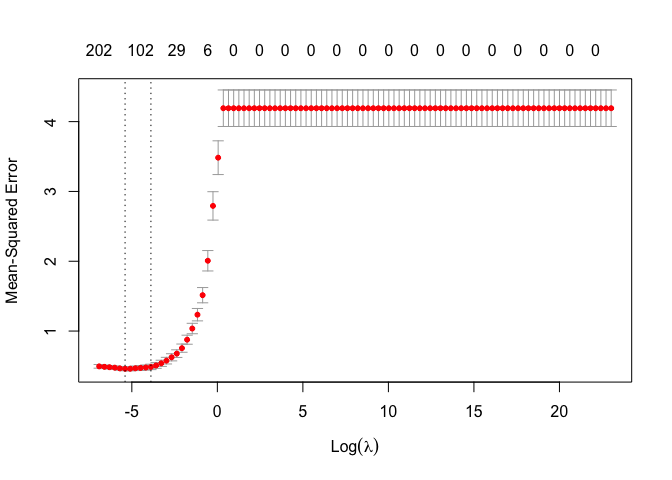
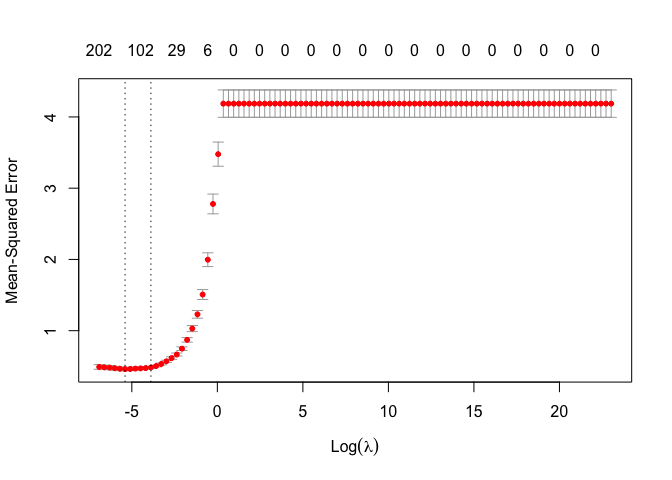
second commit 3/1

diff --git a/Homework1.md b/Homework1.md
@@ -57,6 +57,15 @@ train = read_csv("./data/solubility_train.csv")
 # fit a linear model using least squares
 fit_ml = lm(Solubility ~ .-Solubility, data = train)
 # summary(fit_ml)
+# mse for training data
+pred_ml_train = predict(fit_ml, train)
+mse_ml_train = mse(train$Solubility, pred_ml_train)
+mse_ml_train
+```
+
+    ## [1] 0.2316799
+
+``` r
 # calculate the mse using the test data
 pred_ml  = predict(fit_ml, test)
 mse_ml = mse(test$Solubility, pred_ml)
@@ -121,6 +130,15 @@ best.ridge
     ## [1] 0.06892612
 
 ``` r
+# mse for training data
+pred_ridge_train = predict(cv.ridge, s = best.ridge, newx = x.train)
+mse_ridge_train = mse(train$Solubility, pred_ridge_train)
+mse_ridge_train
+```
+
+    ## [1] 0.2932181
+
+``` r
 # test error
 x.test = as.matrix(subset(test, select = -Solubility))
 pred_ridge = predict(cv.ridge, s = best.ridge, newx = x.test)
@@ -134,7 +152,7 @@ mse_ridge
 
 ``` r
 # cross-validation
-set.seed(2)
+set.seed(1)
 cv.lasso  = cv.glmnet(x.train, y.train, alpha = 1, lambda = 10^seq(10, -3, length = 100))
 plot(cv.lasso)
 ```
@@ -150,6 +168,15 @@ best.lasso
     ## [1] 0.004534879
 
 ``` r
+# mse for training data
+pred_lasso_train = predict(cv.lasso, s = best.lasso, newx = x.train)
+mse_lasso_train = mse(train$Solubility, pred_lasso_train)
+mse_lasso_train
+```
+
+    ## [1] 0.3017123
+
+``` r
 # test error
 pred_lasso = predict(cv.lasso, s = best.lasso, newx = x.test)
 mse_lasso = mse(test$Solubility, pred_lasso)
@@ -160,240 +187,8 @@ mse_lasso
 
 ``` r
 # coefficients of the final model
-predict(cv.lasso, s = "lambda.min", type = "coefficients")
+# predict(cv.lasso, s = "lambda.min", type = "coefficients")
 ```
-
-    ## 229 x 1 sparse Matrix of class "dgCMatrix"
-    ##                              1
-    ## (Intercept)        7.212941406
-    ## FP001              .          
-    ## FP002              0.237554622
-    ## FP003             -0.047828666
-    ## FP004             -0.234244319
-    ## FP005              .          
-    ## FP006             -0.074264043
-    ## FP007              .          
-    ## FP008              .          
-    ## FP009              .          
-    ## FP010              .          
-    ## FP011              .          
-    ## FP012             -0.054758453
-    ## FP013             -0.051873443
-    ## FP014              .          
-    ## FP015             -0.094374257
-    ## FP016             -0.072805709
-    ## FP017             -0.141513899
-    ## FP018             -0.094273168
-    ## FP019              .          
-    ## FP020              0.100791468
-    ## FP021              .          
-    ## FP022              .          
-    ## FP023             -0.156238588
-    ## FP024             -0.109785614
-    ## FP025              .          
-    ## FP026              0.264631778
-    ## FP027              0.304514484
-    ## FP028              .          
-    ## FP029              .          
-    ## FP030             -0.158914960
-    ## FP031              0.120012007
-    ## FP032              .          
-    ## FP033              0.109219221
-    ## FP034             -0.005463146
-    ## FP035             -0.141191638
-    ## FP036              .          
-    ## FP037              0.208952547
-    ## FP038              0.063363825
-    ## FP039             -0.425644064
-    ## FP040              0.434148993
-    ## FP041              .          
-    ## FP042              .          
-    ## FP043              0.058040661
-    ## FP044             -0.296631452
-    ## FP045              0.089546154
-    ## FP046              .          
-    ## FP047              .          
-    ## FP048              .          
-    ## FP049              0.290168631
-    ## FP050             -0.156457305
-    ## FP051              .          
-    ## FP052              .          
-    ## FP053              0.237163059
-    ## FP054             -0.084119169
-    ## FP055             -0.142720343
-    ## FP056              .          
-    ## FP057             -0.088493182
-    ## FP058              .          
-    ## FP059             -0.294160494
-    ## FP060              .          
-    ## FP061             -0.160010778
-    ## FP062              .          
-    ## FP063              0.111700144
-    ## FP064              0.240395105
-    ## FP065             -0.139261493
-    ## FP066              0.046618320
-    ## FP067              .          
-    ## FP068              0.001473962
-    ## FP069              0.131756296
-    ## FP070             -0.085768991
-    ## FP071              0.095996776
-    ## FP072              .          
-    ## FP073             -0.121888929
-    ## FP074              0.108060499
-    ## FP075              0.185936681
-    ## FP076              0.170871760
-    ## FP077              0.081532084
-    ## FP078             -0.145663270
-    ## FP079              0.198457856
-    ## FP080              .          
-    ## FP081             -0.198774327
-    ## FP082              0.139348941
-    ## FP083             -0.343282524
-    ## FP084              0.261617957
-    ## FP085             -0.324029581
-    ## FP086             -0.009397866
-    ## FP087              .          
-    ## FP088              0.098463046
-    ## FP089              .          
-    ## FP090              .          
-    ## FP091              0.003514675
-    ## FP092              .          
-    ## FP093              0.153787051
-    ## FP094             -0.166505319
-    ## FP095              .          
-    ## FP096             -0.048277607
-    ## FP097              .          
-    ## FP098             -0.050073264
-    ## FP099              0.158421493
-    ## FP100              .          
-    ## FP101              .          
-    ## FP102              0.001847309
-    ## FP103             -0.114653291
-    ## FP104             -0.082603903
-    ## FP105             -0.059922120
-    ## FP106              0.069717701
-    ## FP107              .          
-    ## FP108              .          
-    ## FP109              0.323650105
-    ## FP110              .          
-    ## FP111             -0.349653584
-    ## FP112             -0.004223788
-    ## FP113              0.109649463
-    ## FP114              .          
-    ## FP115              .          
-    ## FP116              0.024680548
-    ## FP117              .          
-    ## FP118             -0.097158662
-    ## FP119              0.215510264
-    ## FP120             -0.006456880
-    ## FP121              .          
-    ## FP122              0.205228161
-    ## FP123              .          
-    ## FP124              0.301724821
-    ## FP125              0.050011585
-    ## FP126             -0.154773851
-    ## FP127             -0.498413559
-    ## FP128             -0.225966983
-    ## FP129              .          
-    ## FP130             -0.277683306
-    ## FP131              0.191428666
-    ## FP132             -0.018189196
-    ## FP133             -0.156263153
-    ## FP134              .          
-    ## FP135              0.193018319
-    ## FP136              .          
-    ## FP137              0.202550460
-    ## FP138              0.232852291
-    ## FP139              .          
-    ## FP140              0.015344519
-    ## FP141             -0.080184256
-    ## FP142              0.451929504
-    ## FP143              0.322004925
-    ## FP144              .          
-    ## FP145             -0.069901029
-    ## FP146              .          
-    ## FP147              0.145588786
-    ## FP148             -0.049110323
-    ## FP149              .          
-    ## FP150              0.016984674
-    ## FP151              .          
-    ## FP152              .          
-    ## FP153              .          
-    ## FP154             -0.506999925
-    ## FP155              0.026838008
-    ## FP156             -0.228222519
-    ## FP157             -0.065770355
-    ## FP158              .          
-    ## FP159              0.063345717
-    ## FP160             -0.056630939
-    ## FP161             -0.066583178
-    ## FP162              .          
-    ## FP163              0.174655584
-    ## FP164              0.392312654
-    ## FP165              .          
-    ## FP166              0.021773490
-    ## FP167             -0.096996203
-    ## FP168              .          
-    ## FP169             -0.147772339
-    ## FP170              0.007732357
-    ## FP171              0.246055654
-    ## FP172             -0.541405327
-    ## FP173              0.347341011
-    ## FP174             -0.111905777
-    ## FP175              .          
-    ## FP176              0.403296103
-    ## FP177              .          
-    ## FP178              .          
-    ## FP179              .          
-    ## FP180             -0.084880307
-    ## FP181              0.202247955
-    ## FP182             -0.024850196
-    ## FP183              .          
-    ## FP184              0.309645305
-    ## FP185              .          
-    ## FP186             -0.207386888
-    ## FP187              0.222389156
-    ## FP188              0.209655065
-    ## FP189              .          
-    ## FP190              0.276789680
-    ## FP191              0.082389646
-    ## FP192              0.066451387
-    ## FP193              .          
-    ## FP194              .          
-    ## FP195              .          
-    ## FP196              .          
-    ## FP197              .          
-    ## FP198              0.160376098
-    ## FP199              .          
-    ## FP200              .          
-    ## FP201             -0.292241423
-    ## FP202              0.411830415
-    ## FP203              0.074597990
-    ## FP204              .          
-    ## FP205              .          
-    ## FP206             -0.054257119
-    ## FP207              .          
-    ## FP208              .          
-    ## MolWeight         -1.327799081
-    ## NumAtoms           .          
-    ## NumNonHAtoms       .          
-    ## NumBonds           .          
-    ## NumNonHBonds      -0.981748364
-    ## NumMultBonds      -0.135668498
-    ## NumRotBonds       -0.237152803
-    ## NumDblBonds        .          
-    ## NumAromaticBonds  -0.097234922
-    ## NumHydrogen        0.110046607
-    ## NumCarbon         -0.638934035
-    ## NumNitrogen        0.157565807
-    ## NumOxygen          0.515047440
-    ## NumSulfer         -0.256457665
-    ## NumChlorine       -0.540229650
-    ## NumHalogen         .          
-    ## NumRings          -0.007673889
-    ## HydrophilicFactor  .          
-    ## SurfaceArea1       0.250426425
-    ## SurfaceArea2       .
 
 # Part d
 
@@ -413,8 +208,8 @@ library(pls)
     ##     loadings
 
 ``` r
-set.seed(3)
 # fit PCR model using the function pcr()
+set.seed(1)
 fit.pcr = pcr(Solubility ~ .-Solubility, data = train, scale = TRUE, validation = "CV")
 # summary(fit.pcr)
 validationplot(fit.pcr, val.type = "MSEP", legendpos = "topright")
@@ -428,32 +223,40 @@ ncomp.cv = which.min(cv.mse$val[1,,])-1
 ncomp.cv
 ```
 
-    ## 195 comps 
-    ##       195
+    ## 152 comps 
+    ##       152
 
 ``` r
-pred_pc = predict(fit.pcr, newdata = test, ncomp = ncomp.cv)
+# mse for training data
+pred_pc_train = predict(fit.pcr, newdata = train, ncomp = ncomp.cv)
+mse_pc_train = mse(train$Solubility, pred_pc_train)
+mse_pc_train
+```
+
+    ## [1] 0.3295866
+
+``` r
 # test error
+pred_pc = predict(fit.pcr, newdata = test, ncomp = ncomp.cv)
 mse_pc = mse(test$Solubility, pred_pc)
 mse_pc
 ```
 
-    ## [1] 0.543476
+    ## [1] 0.5477905
 
 # Part e
 
 For ridge regression, the optimal lambda chosen is 0.0689261. For lasso,
 the optimal lambda chosen is 0.0045349. For principal component
-regression, the value of M chosen is 195. After using the test data to
+regression, the value of M chosen is 152. After using the test data to
 calculate the mean square error for the four models (linear = 0.5558898,
-ridge = 0.5121138, lasso = 0.4998646, principal component = 0.543476),
+ridge = 0.5121138, lasso = 0.4998646, principal component = 0.5477905),
 lasso has the smallest test error.
 
 # Part f
 
-I will choose lasso model for predicting solubility. First of all, lasso
-yields the smallest mse on the test dataset. Moreover, the lasso
-performs variable selection and yields sparse models. In this case, the
-summary of coefficients for the final lasso model show that some of them
-shrink to zero. Therefore, the lasso model also has higher
+I will choose the linear regression model for predicting solubility.
+First of all, it yields the smallest mse on the training dataset (linear
+= 0.2316799, ridge = 0.2932181, lasso = 0.3017123, principal component =
+0.3295866). Moreover, the linear regression model also has higher
 interpretability.
